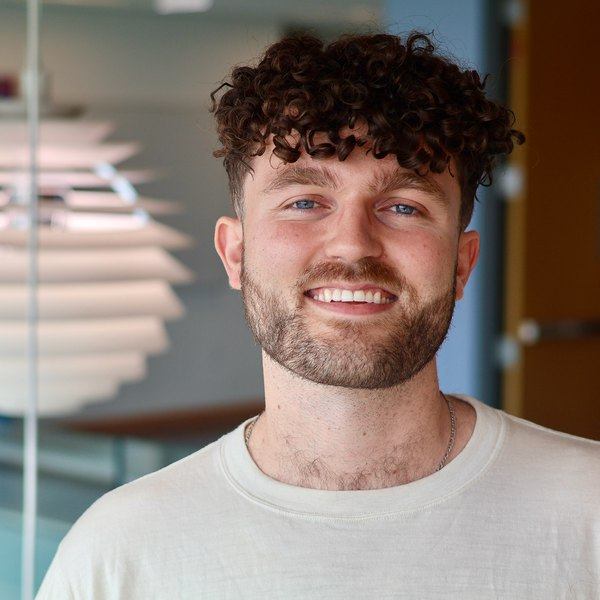
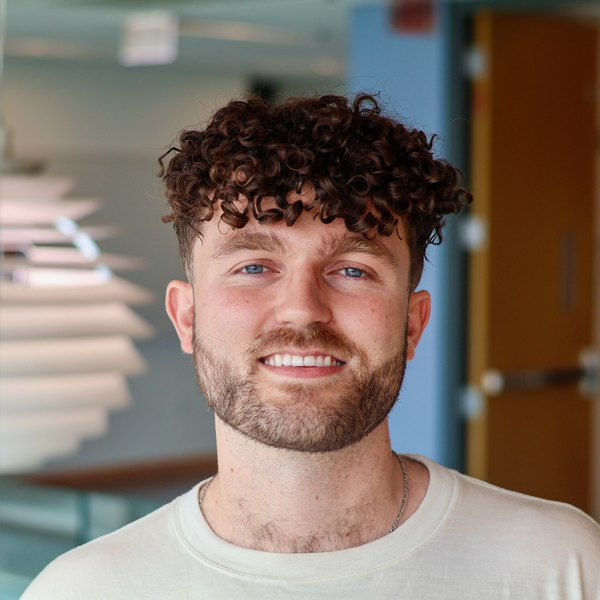
John Williams headshot: centred, from 1.png
The previous frame had his face near the right edge, so a square holding it at
the usual 0.40 could not also be centred on it. 1.png has him mid-frame: face
centred horizontally at 0.42 of the square, 600x600.

crop_heads.py: crop() placed the square at its full size and only then shrank
it to fit the photo, which shifted the face off-centre whenever the shrink
happened. It now sizes the square first, including the room either side of the
face, so a face near an edge gets a tighter crop instead of an off-centre one.
Zander's and Victoria's installed crops predate the fix and are left as they
are.

diff --git a/scripts/crop_heads.py b/scripts/crop_heads.py
@@ -30,7 +30,7 @@ PEOPLE = [
     ("abhijith-surendran", "Abhi_sept_2026/5-IMG_6886.jpg"),
     ("rachel-daso",        "Rachel_sept_2026/4-IMG_6861.jpg"),
     ("catherine-beaumont", "Catherine_sept_2026/3-IMG_6880.jpg"),
-    ("john-williams",      "John_sept_2026/1 (7).png"),
+    ("john-williams",      "John_sept_2026/1.png"),
 ]
 # Haar finds only the glasses on this one frame, and John picked this frame, so the box is read off
 # the image by hand (hairline y=480 to chin y=1520, face centred on x=2590) rather than substituting a
@@ -96,14 +96,14 @@ def detect(path, loose=False):
 
 def crop(path, out, box):
     x, y, w, h = box
-    side = h / FACE_FRAC                              # the square the face should occupy 40% of
-    cx, cy = x + w / 2, y + h / 2
-    left, top = cx - side / 2, cy - side * FACE_CY
     im = ImageOps.exif_transpose(Image.open(path)).convert("RGB")
     W, H = im.size
-    left = max(0, min(left, W - side))                # keep the square inside the photo
-    top = max(0, min(top, H - side))
-    side = min(side, W, H)
+    cx, cy = x + w / 2, y + h / 2
+    # the square the face should occupy 40% of, shrunk when the photo can't hold it centred on the
+    # face: near a side edge that means a tighter crop, not a face pushed off-centre
+    side = min(h / FACE_FRAC, H, 2 * cx, 2 * (W - cx))
+    left = cx - side / 2
+    top = max(0, min(cy - side * FACE_CY, H - side))  # keep the square inside the photo
     im.crop((int(left), int(top), int(left + side), int(top + side))) \
       .resize((SIZE, SIZE), Image.LANCZOS) \
       .save(out, quality=86, optimize=True, progressive=True)
